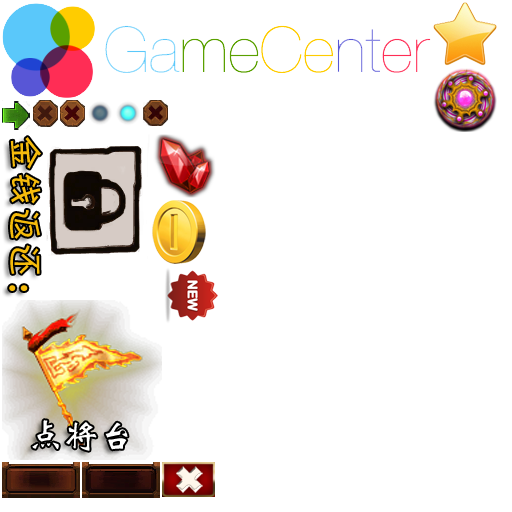
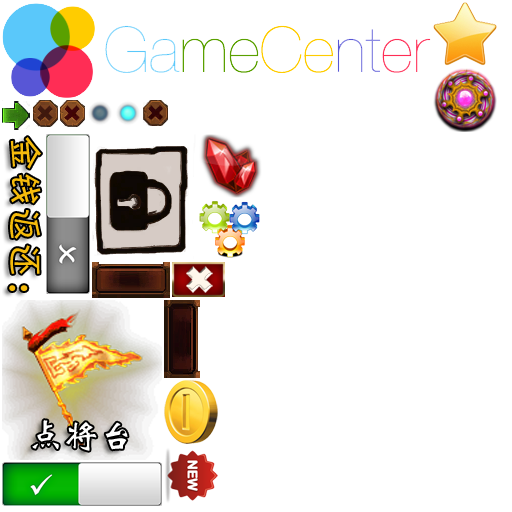
res

Changed region(s): [[0.0, 0.25, 0.5312, 1.0]]

diff --git a/Classes/UI/KGameSettingPanel.cpp b/Classes/UI/KGameSettingPanel.cpp
@@ -1,0 +1,79 @@
+#include "KGameSettingPanel.h"
+#include "../GameLogic/KDynamicWorld.h"
+#include "assist/KUIAssist.h"
+#include "../VirtualService.h"
+#include "GameRoot.h"
+#include "../KNet/KSocketFacade.h"
+#include "../WorldObject/KMainPlayer.h"
+#include "../Quest/KPlayerQuestManager.h"
+#include "assist/KUIAssist.h"
+#include "BattleFieldScene.h"
+#include "../Quest/KQuestManager.h"
+#include "assist/KQuestFacade.h"
+#include "../Item/KItemCreate.h"
+#include "../WorldObject/KPlayer.h"
+#include "assist/KJsonDictMgr.h"
+
+
+using namespace cocos2d::extension;
+using namespace KItemAbout;
+
+#define SELECT_ITEM_TAG_BASE 10000
+KGameSettingPanel::KGameSettingPanel():m_Panel(NULL)
+{
+}
+
+KGameSettingPanel::~KGameSettingPanel()
+{
+	CC_SAFE_RELEASE_NULL(m_Panel);
+}
+void KGameSettingPanel::init(cocos2d::extension::UILayer* layer)
+{
+	UIWidget* pBut;
+	if(!m_Panel){
+		m_Panel =KJsonDictMgr::getSingleton().widgetFromJsonFile("GUI/GameResult.json");
+		CC_SAFE_RETAIN(m_Panel);
+		pBut = UIHelper::seekWidgetByName(m_Panel, "bk");
+		pBut->addPushDownEvent(this, coco_pushselector(KGameSettingPanel::DoClickClose));
+
+		pBut = UIHelper::seekWidgetByName(m_Panel, "but_exit");
+		pBut->addPushDownEvent(this, coco_pushselector(KGameSettingPanel::DoClickClose));
+
+		pBut = UIHelper::seekWidgetByName(m_Panel, "but_continue");
+		pBut->addPushDownEvent(this, coco_pushselector(KGameSettingPanel::DoClickContinue));
+
+		for(int i=0; i<3; i++)
+		{
+			UIImageView* pSlot = (UIImageView*)KUIAssist::GetIndexWidget(m_Panel,"slot",i);
+			pSlot->addPushDownEvent(this, coco_pushselector(KGameSettingPanel::DoClickSlot));
+			pSlot->setTag(i);
+		}
+
+	}
+	m_layer = layer;
+	//m_layer->addWidget(m_Panel);
+	m_Panel->setZOrder(999);
+	m_bSelectGift = false;
+	m_expBar.init(NULL,0,0,0.0f);
+
+	updatePanel();
+}
+
+void KGameSettingPanel::ShowPanel()
+{
+	if(!m_Panel->getParent()) m_layer->addWidget(m_Panel);
+	m_Panel->setScale(0.1f);
+	m_Panel->setAnchorPoint(ccp(0.5,0.5));
+	CCActionInterval*  actionBy = CCScaleTo::create(0.3f, 1, 1);
+	m_Panel->runAction(actionBy);
+	m_Panel->setPosition(KUIAssist::_getScreenCenter());
+	updatePanel();
+}
+
+
+void KGameSettingPanel::DoClickClose(CCObject* sender)
+{
+	m_Panel->removeFromParent();
+	
+	KUIAssist::_switch2MainMenu();
+}

diff --git a/Classes/UI/KGameSettingPanel.h b/Classes/UI/KGameSettingPanel.h
@@ -1,0 +1,25 @@
+#ifndef _KGAMESETTINGPANEL_H
+#define _KGAMESETTINGPANEL_H
+
+#include "cocos2d.h"
+#include "cocos-ext.h"
+#include "UILayer.h"
+
+USING_NS_CC;
+using namespace cocos2d::extension;
+
+class KGameSettingPanel :public CCObject
+{
+public:
+	KGameSettingPanel();
+	~KGameSettingPanel();
+
+	void init(cocos2d::extension::UILayer* layer);
+	void DoClickClose(CCObject* sender);
+private:
+	cocos2d::extension::UILayer* m_layer;
+	cocos2d::extension::UIWidget* m_Panel;
+	CCPoint m_pt;
+};
+
+#endif // __BattleFieldScene_SCENE_H__
